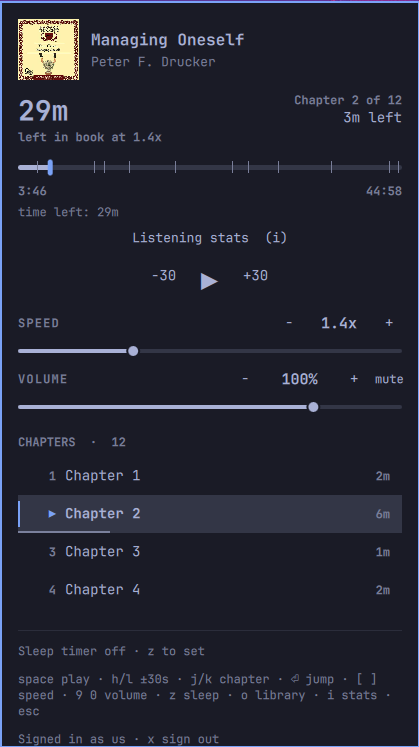
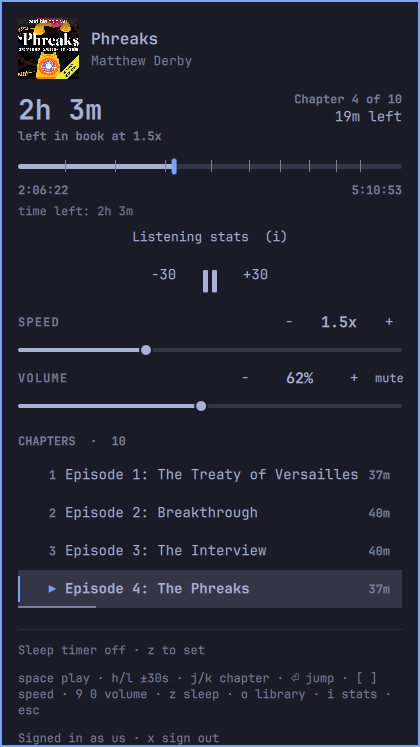
Preview: the player popup playing Phreaks

diff --git a/README.md b/README.md
@@ -17,7 +17,7 @@ Not affiliated with Audible or Amazon.
 
 **The player popup.** Progress with chapter ticks, speed and volume, the chapter list, a sleep timer, and a key legend.
 
-<p><img src="preview.png" alt="The player popup: book title, time left, progress with chapter ticks, speed and volume sliders, and the chapter list" width="360"></p>
+<p><img src="preview.png" alt="The player popup while Phreaks plays: title, time left, progress with chapter ticks, speed and volume sliders, and the chapter list" width="360"></p>
 
 **The library.** (The library and details screens below show a sample library of hacker-culture books, not a real account.) Search at the top, then Continue listening, Suggested for you, and the rest of your books. Press `Tab` to switch between the cover grid and a list.
 
